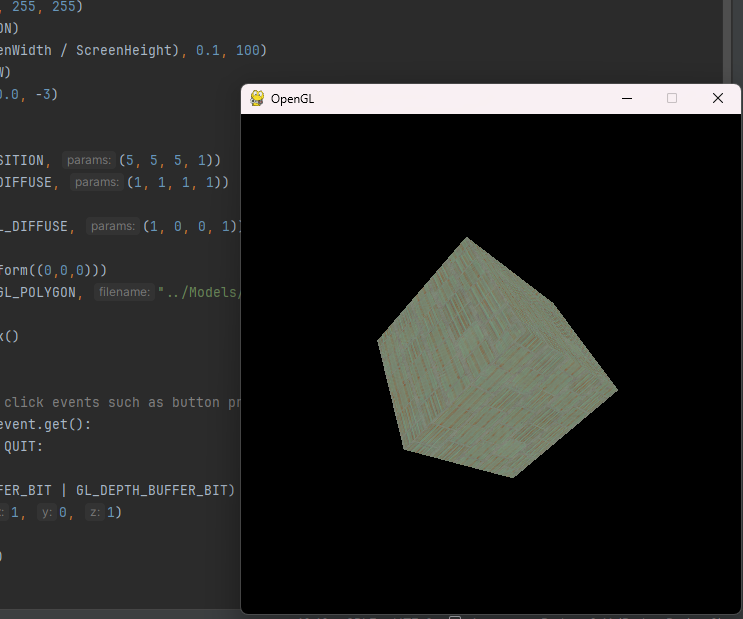
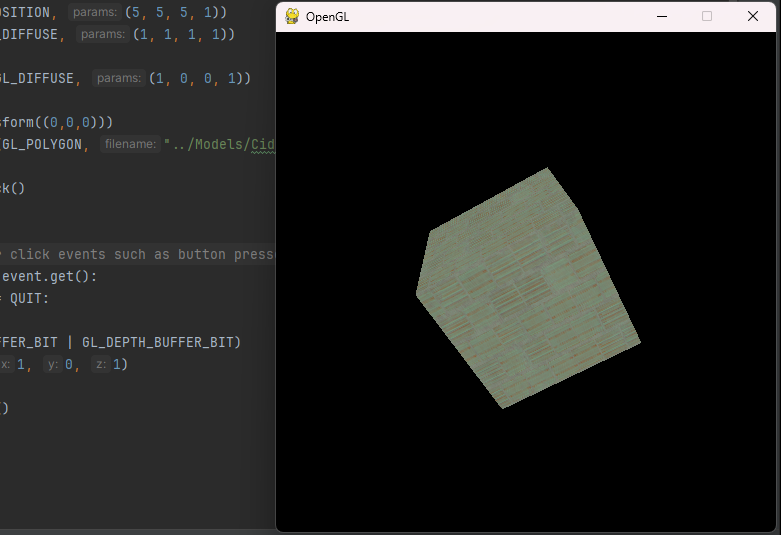
Fixed Image, OpenGL

diff --git a/index.html b/index.html
@@ -139,7 +139,7 @@
       <div class="footer-grid">
         <div class="footer-cta">
           Let's <em>talk</em>.<br>
-          <a href="mailto:DawidMak915@gmail.com">DawidMak915@gmail.com</a>
+          <a href="mailto:DawidMak915@gmail.com">dawidmak915@gmail.com</a>
         </div>
         <div class="socials">
           <a href="https://github.com/CaveDaveM">→ GitHub</a>
